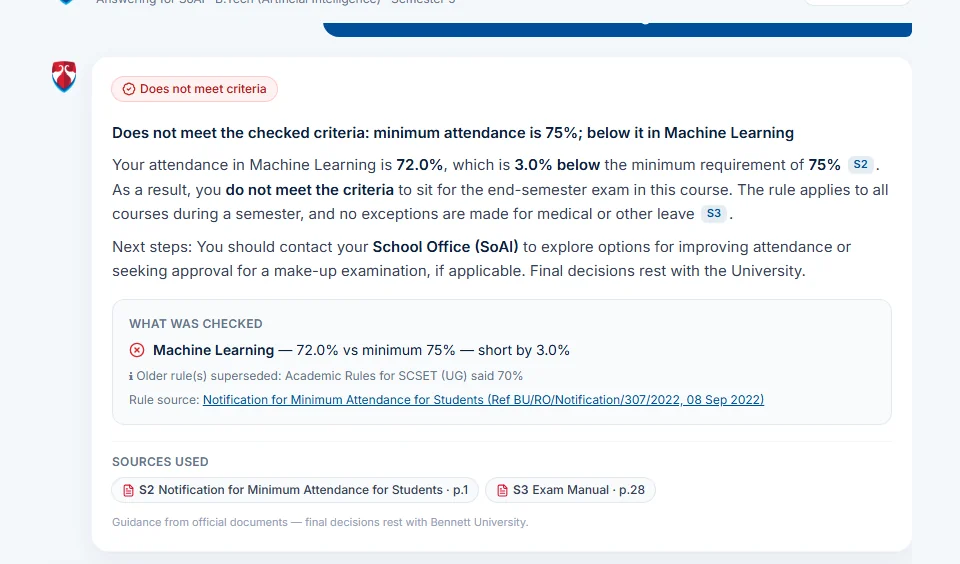
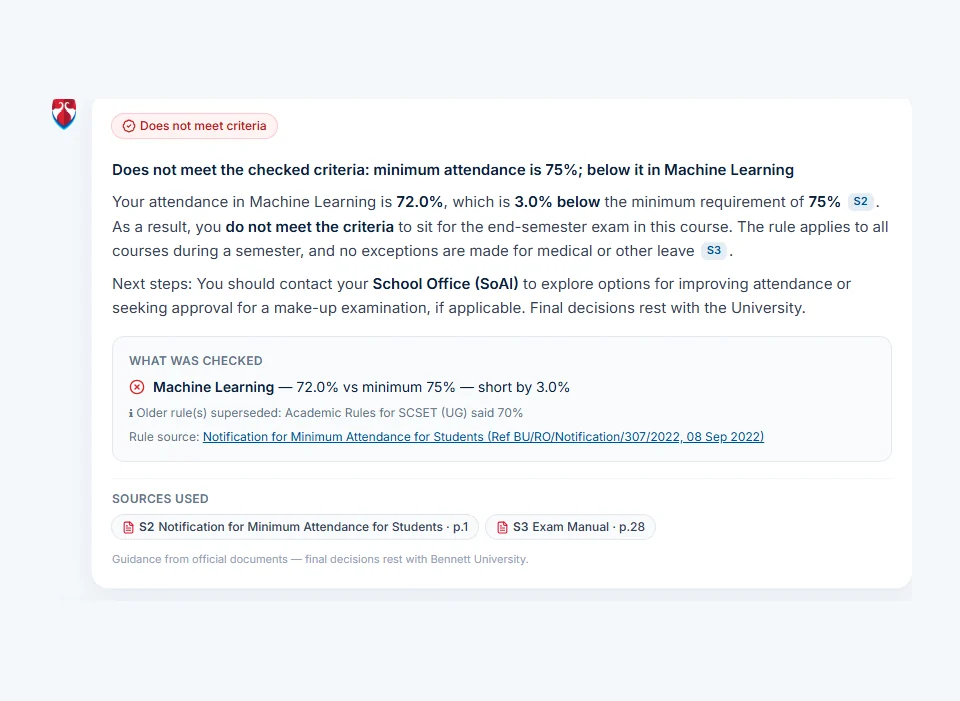
Preview: shorter HinglishGuard title; cleaner BENNETT ONE and StockLens images

diff --git a/index.html b/index.html
@@ -140,12 +140,12 @@
 
             <article class="featured-project reveal">
                 <div class="project-gallery single-image">
-                    <button class="gallery-main lightbox-trigger" data-image="projects/hinglishguard.webp" aria-label="View HinglishGuard — Hinglish Moderation Bot screenshot"><img src="projects/hinglishguard.webp" alt="HinglishGuard bot in Discord removing abusive messages and posting a warning" loading="lazy"></button>
+                    <button class="gallery-main lightbox-trigger" data-image="projects/hinglishguard.webp" aria-label="View HinglishGuard screenshot"><img src="projects/hinglishguard.webp" alt="HinglishGuard bot in Discord removing abusive messages and posting a warning" loading="lazy"></button>
                     <span class="project-number">01</span>
                 </div>
                 <div class="project-info">
                     <span class="project-type">NLP · Discord Bot · Featured Project</span>
-                    <h3>HinglishGuard — Hinglish Moderation Bot</h3>
+                    <h3>HinglishGuard — Moderation Bot</h3>
                     <p>A Discord bot that removes abuse and religious hate in Hindi and Hinglish, and sends uncertain messages to a human moderator. Built on fine-tuned transformer models.</p>
                     <div class="feature-list"><span>Macro-F1 0.744 → 0.800</span><span>Decodes disguised slurs</span><span>Live on Discord</span><span>Human review for edge cases</span></div>
                     <div class="tech-row"><span>PyTorch</span><span>HingRoBERTa</span><span>discord.py</span><span>Ollama</span></div>
